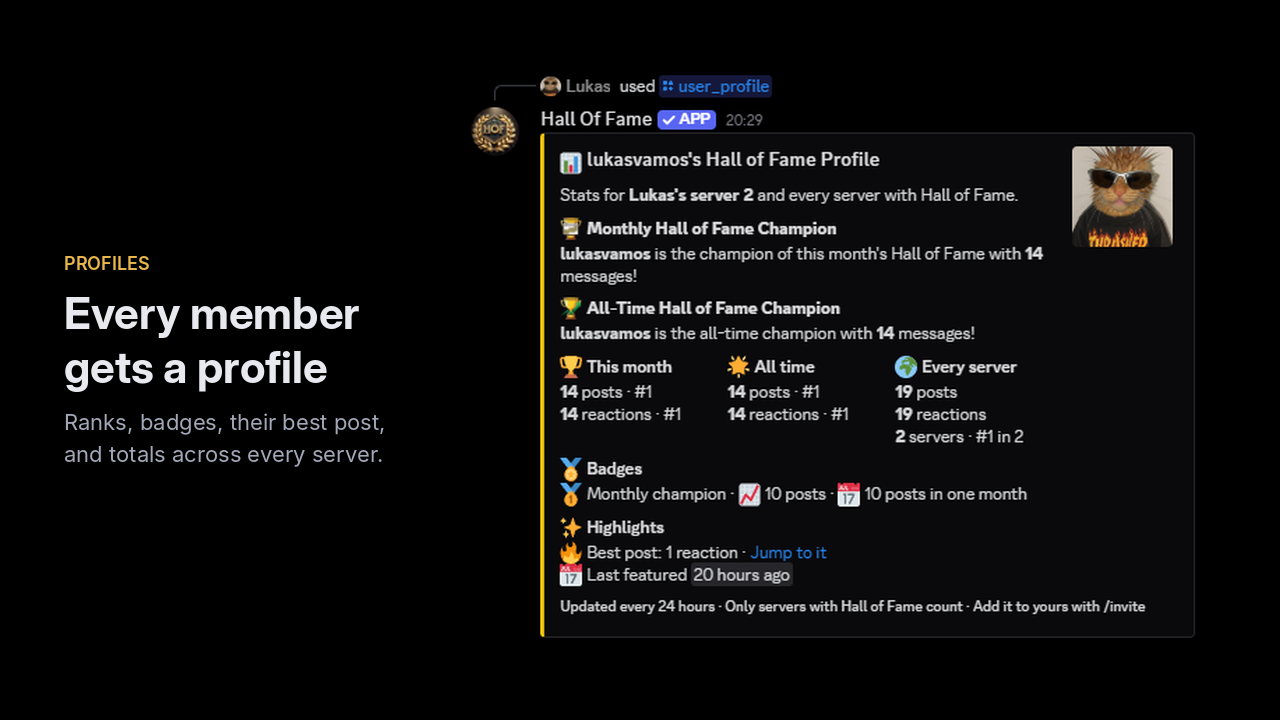
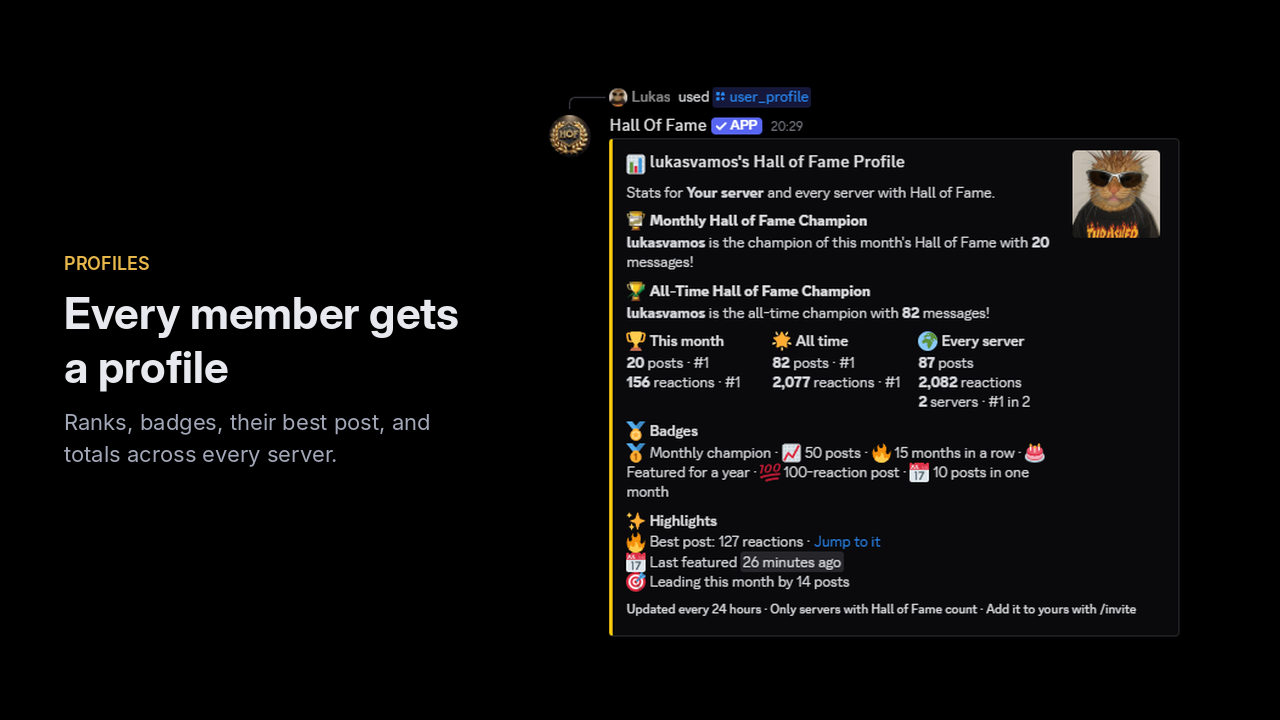
Use the seeded profile in the listing images
The profile image now shows the full badge set, a 127-reaction best post and the renamed test server.
The guide's list of images still to retake is down to the leaderboard and the board post.

Claude-Session: https://claude.ai/code/session_01Pu1eX2p78U3mGnTfrx4Sgm

diff --git a/Assets/app_directory.md b/Assets/app_directory.md
@@ -147,9 +147,9 @@ How they are made, so they can be redone the same way when the layout changes:
 - Each one is placed on a 1280×720 black canvas with a short caption on the left (Inter, the landing
   page's gold `#e8b84a` for the label), so the carousel shows them all at the same size.
 
-Still to redo: rename the test server before the screenshots, since "Lukas's server 2" shows in the
-leaderboard title and the profile, and give the board post more than one reaction. The profile should
-also be retaken from the seeded history, so it shows the full set of badges.
+Still to redo: the leaderboard, since the test server's old name "Lukas's server 2" shows in its
+title (the server is now called "Your server"), and the board post, which should have more than one
+reaction.
 
 <br>
 
